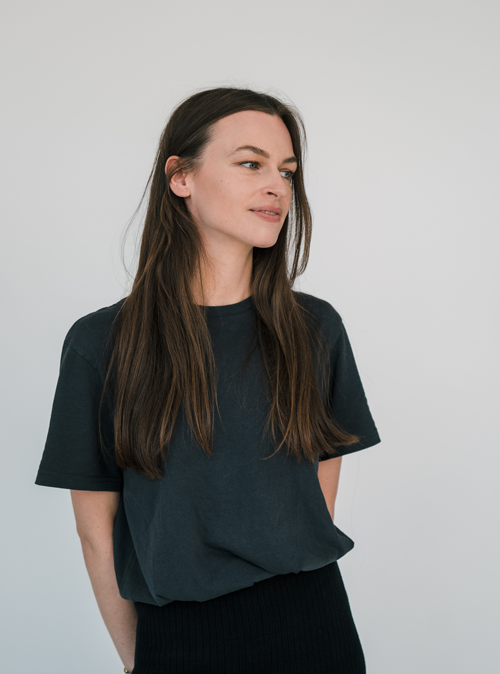
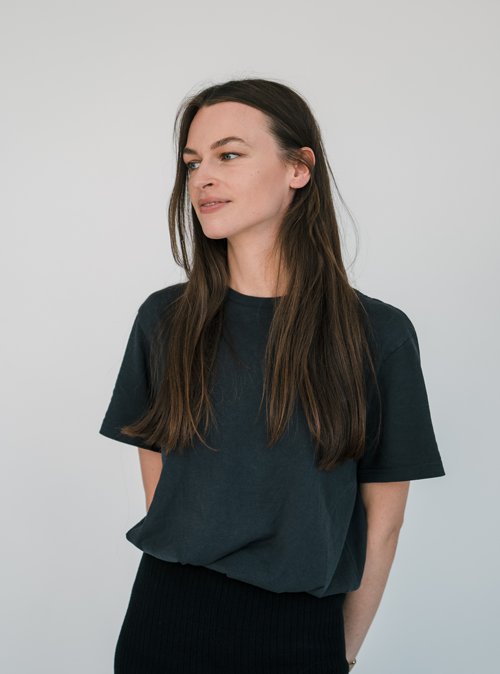
add picture size and mobile view

Changed region(s): [[0.06, 0.0935, 0.9, 1.0]]

diff --git a/css/style.css b/css/style.css
@@ -286,7 +286,6 @@ span {
 .sofia-img {
   z-index: 1;
   right: 8.5vw;
-  transform: scaleX(-1);
   width: 11vw;
   height: auto;
   object-fit: contain;
@@ -305,8 +304,8 @@ span {
 
 .first-line {
   width: 100%;
-  margin-top: 30px;
-  margin-bottom: 80px;
+  margin-top: 20vw;
+  margin-bottom: 7vw;
   animation: line linear;
   animation-timeline: view(block 0% 0%);
 }
@@ -355,7 +354,7 @@ span {
   width: 10vw;
   height: auto;
   z-index: 3;
-  transform: translate(-10%, 80%);
+  transform: translate(-10%, 440%);
 }
 
 .work-section {
@@ -386,7 +385,7 @@ span {
 }
 
 .project {
-  margin-bottom: -200px;
+  margin-bottom: -20vw;
   display: flex;
 }
 
@@ -395,7 +394,7 @@ span {
 }
 
 .project-right {
-  margin-bottom: -200px;
+  margin-bottom: -20vw;
   display: flex;
   justify-content: end;
 }
@@ -445,7 +444,7 @@ span {
 }
 
 .about-section {
-  margin-top: 20vw;
+  margin-top: 25vw;
   margin-bottom: 20vw;
 }
 
@@ -485,6 +484,7 @@ span {
 .about-text-smal {
   font-family: var(--roc);
   font-size: var(--fontsize-2);
+  line-height: 1.25vw;
   font-weight: 500;
   text-transform: none;
   letter-spacing: 0;
@@ -559,7 +559,7 @@ footer {
 }
 
 .arrow {
-  width: 0.6vw;
+  width: 0.4vw;
   display: inline-block;
 }
 
@@ -567,6 +567,10 @@ footer {
   text-decoration: underline;
 }
 
+/*---------- mobile M Viewport---------- */
+
+@media (max-width: 768px) {
+}
 /*---------- mobile S Viewport---------- */
 
 /* overlay font */
@@ -699,34 +703,35 @@ footer {
     width: 25vw;
     height: auto;
     margin-right: -1.3vw;
+    transform: translate(0%, -55%);
   }
 
   #i-am-sofia {
     width: 20vw;
     height: auto;
-    transform: translate(40%, -250%);
+    transform: translate(40%, -350%);
   }
 
   #some-of-my-designs {
-    width: 30vw;
+    width: 27vw;
     height: auto;
-    transform: translate(70%, -400%);
+    transform: translate(70%, -590%);
   }
 
   #click-on-it {
     width: 25vw;
     height: auto;
-    transform: translate(60%, -490%);
+    transform: translate(60%, -620%);
   }
   #about-me {
     width: 20vw;
     height: auto;
-    transform: translate(40%, -350%);
+    transform: translate(80%, -690%);
   }
   #lets-connect {
     width: 25vw;
     height: auto;
-    transform: translate(-5%, 80%);
+    transform: translate(60%, -1270%);
   }
 
   .headline-chapter {
@@ -745,18 +750,24 @@ footer {
     font-size: 3vw;
   }
 
+  .container-about-text {
+    display: flex;
+    width: 83vw;
+  }
+
   .spaceholder {
     display: none;
   }
 
   .about-text-big {
-    font-size: 6vw;
-    line-height: 6.6vw;
+    font-size: 5.5vw;
+    line-height: 6.3vw;
   }
 
   .about-text-smal {
     font-size: 3vw;
-    font-weight: 500;
+    line-height: 3.7vw;
+    font-weight: 400;
     text-transform: none;
     letter-spacing: 0;
     margin-top: 20px;

diff --git a/js/index.js b/js/index.js
@@ -39,63 +39,24 @@ document.addEventListener("scroll", () => {
   } else {
     iAmSofia.style.display = "none"; // Bild ausblenden
   }
-  if (percentage >= 12.68976255352277 && percentage < 22.003577817531305) {
+  if (percentage >= 12.68976255352277 && percentage < 42.78676988036594) {
     someOfMyDesignns.style.display = "block"; // Bild anzeigen
   } else {
     someOfMyDesignns.style.display = "none"; // Bild ausblenden
   }
-  if (percentage >= 28.085867620751344 && percentage < 62.797747942832395) {
+  if (percentage >= 48.55328158080452 && percentage < 62.797747942832395) {
     clickOnIt.style.display = "block"; // Bild anzeigen
   } else {
     clickOnIt.style.display = "none"; // Bild ausblenden
   }
-  if (percentage >= 76.91641403204851 && percentage < 96.6010733452594) {
+  if (percentage >= 76.91641403204851 && percentage < 90) {
     aboutMe.style.display = "block"; // Bild anzeigen
   } else {
     aboutMe.style.display = "none"; // Bild ausblenden
   }
-  if (percentage >= 100) {
+  if (percentage >= 98) {
     letsConnect.style.display = "block"; // Bild anzeigen
   } else {
     letsConnect.style.display = "none"; // Bild ausblenden
   }
 });
-
-// window.addEventListener("scroll", function () {
-//   var scrollY = window.scrollY;
-//   var iAmSofia = document.getElementById("i-am-sofia");
-//   var someOfMyDesignns = document.getElementById("some-of-my-designs");
-//   var clickOnIt = document.getElementById("click-on-it");
-//   var aboutMe = document.getElementById("about-me");
-//   var letsConnect = document.getElementById("lets-connect");
-//   console.log("position of the window on the total webpage", scrollY);
-//   console.log("height of the webpage", document.body.clientHeight);
-
-//   const height = document.body.clientHeight; //100%
-
-//   if (scrollY >= -1 && scrollY < 110) {
-//     iAmSofia.style.display = "block"; // Bild anzeigen
-//   } else {
-//     iAmSofia.style.display = "none"; // Bild ausblenden
-//   }
-//   if (scrollY >= 219 && scrollY < 500) {
-//     someOfMyDesignns.style.display = "block"; // Bild anzeigen
-//   } else {
-//     someOfMyDesignns.style.display = "none"; // Bild ausblenden
-//   }
-//   if (scrollY >= 540 && scrollY < 1800) {
-//     clickOnIt.style.display = "block"; // Bild anzeigen
-//   } else {
-//     clickOnIt.style.display = "none"; // Bild ausblenden
-//   }
-//   if (scrollY >= 2350 && scrollY < 2983) {
-//     aboutMe.style.display = "block"; // Bild anzeigen
-//   } else {
-//     aboutMe.style.display = "none"; // Bild ausblenden
-//   }
-//     if (scrollY >= 2500 && scrollY < 3000) {
-//       letsConnect.style.display = "block"; // Bild anzeigen
-//     } else {
-//       letsConnect.style.display = "none"; // Bild ausblenden
-//     }
-// });

diff --git a/index.html b/index.html
@@ -97,7 +97,7 @@
         </div>
       </section>
       <section class="about-section">
-        <hr  class="first-line" />
+        <hr id="line"  class="first-line"  />
         <div class="about-chapter">
           <div class="headline-chapter">
             <p id="about">
